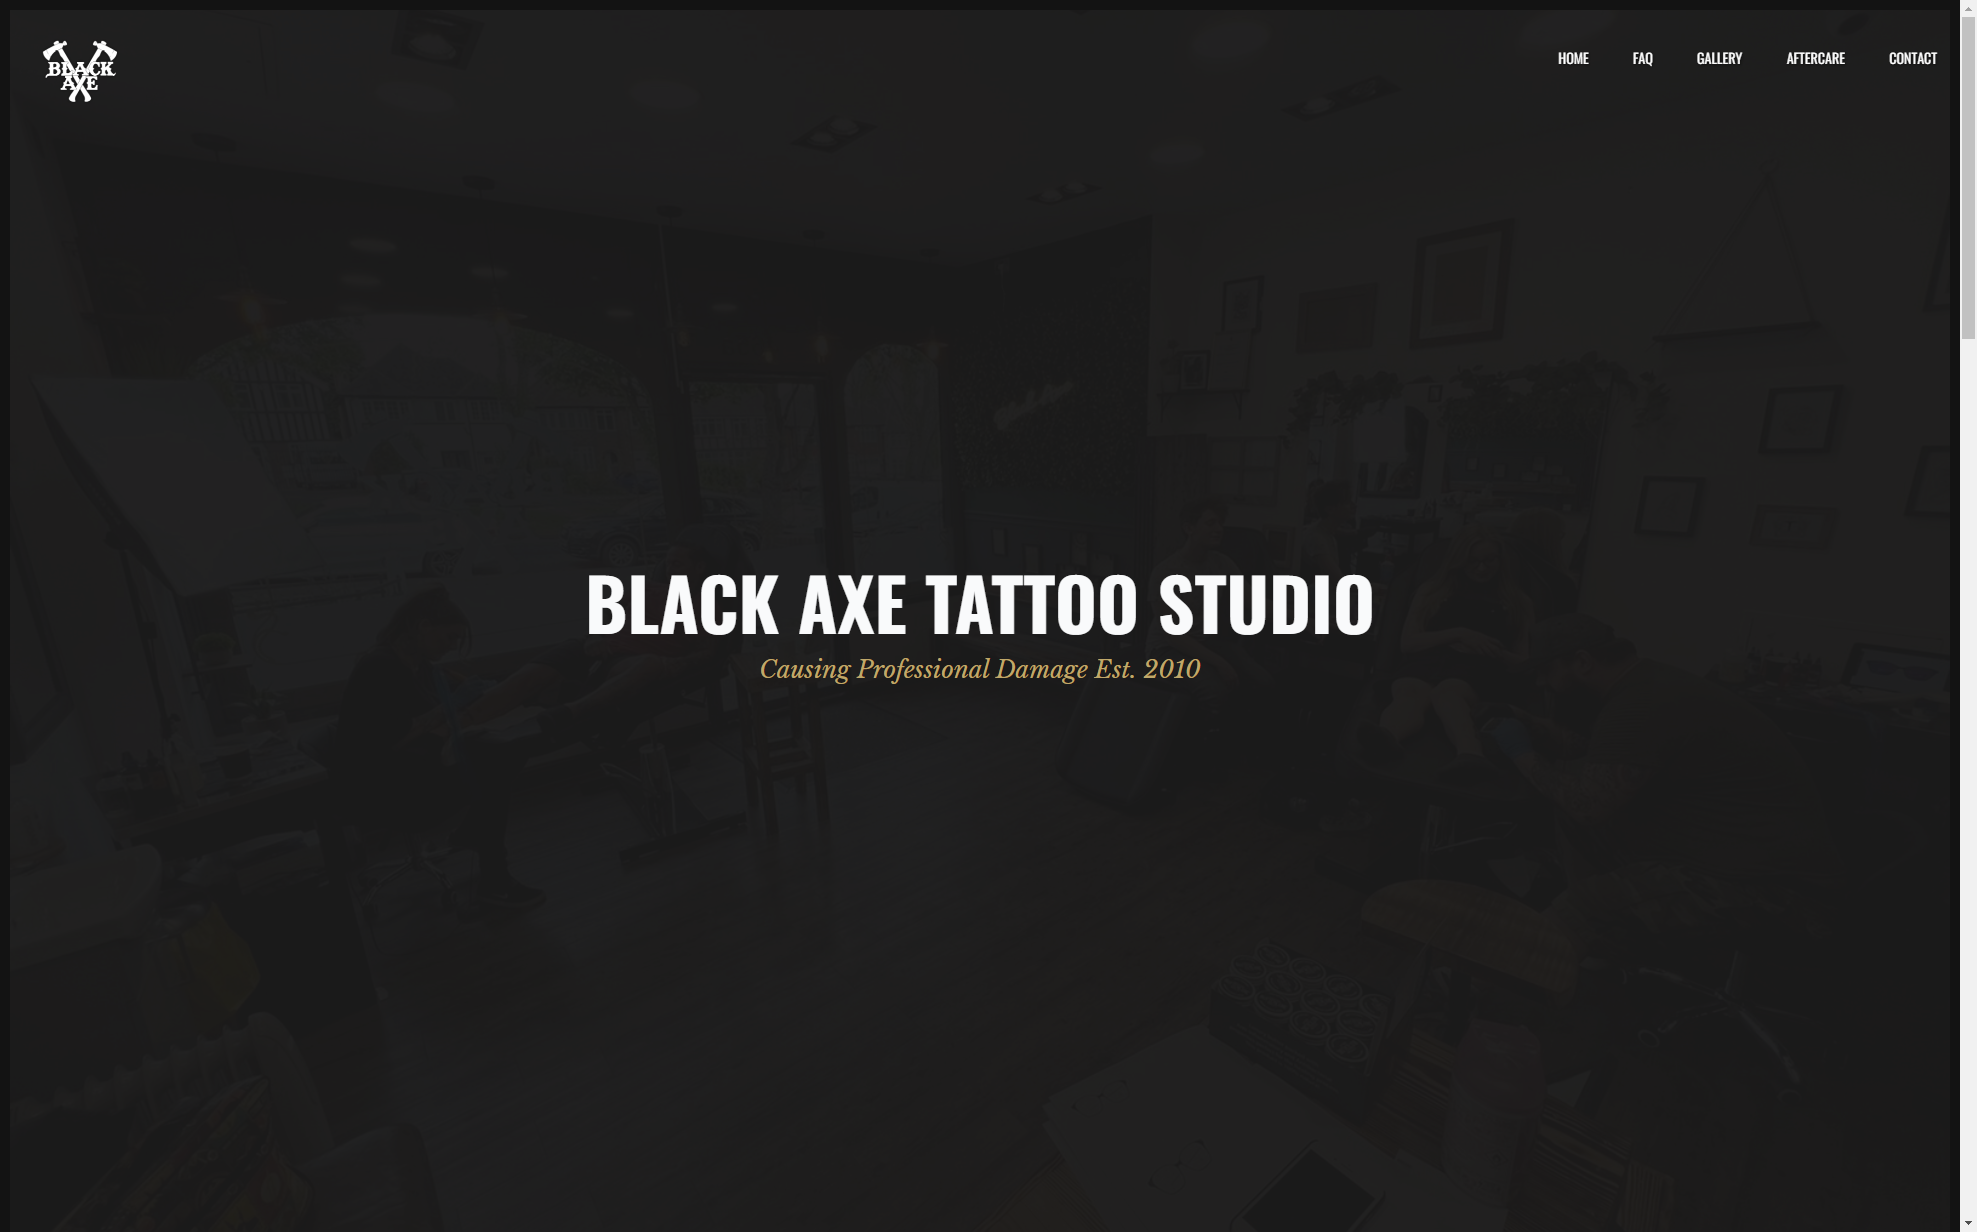
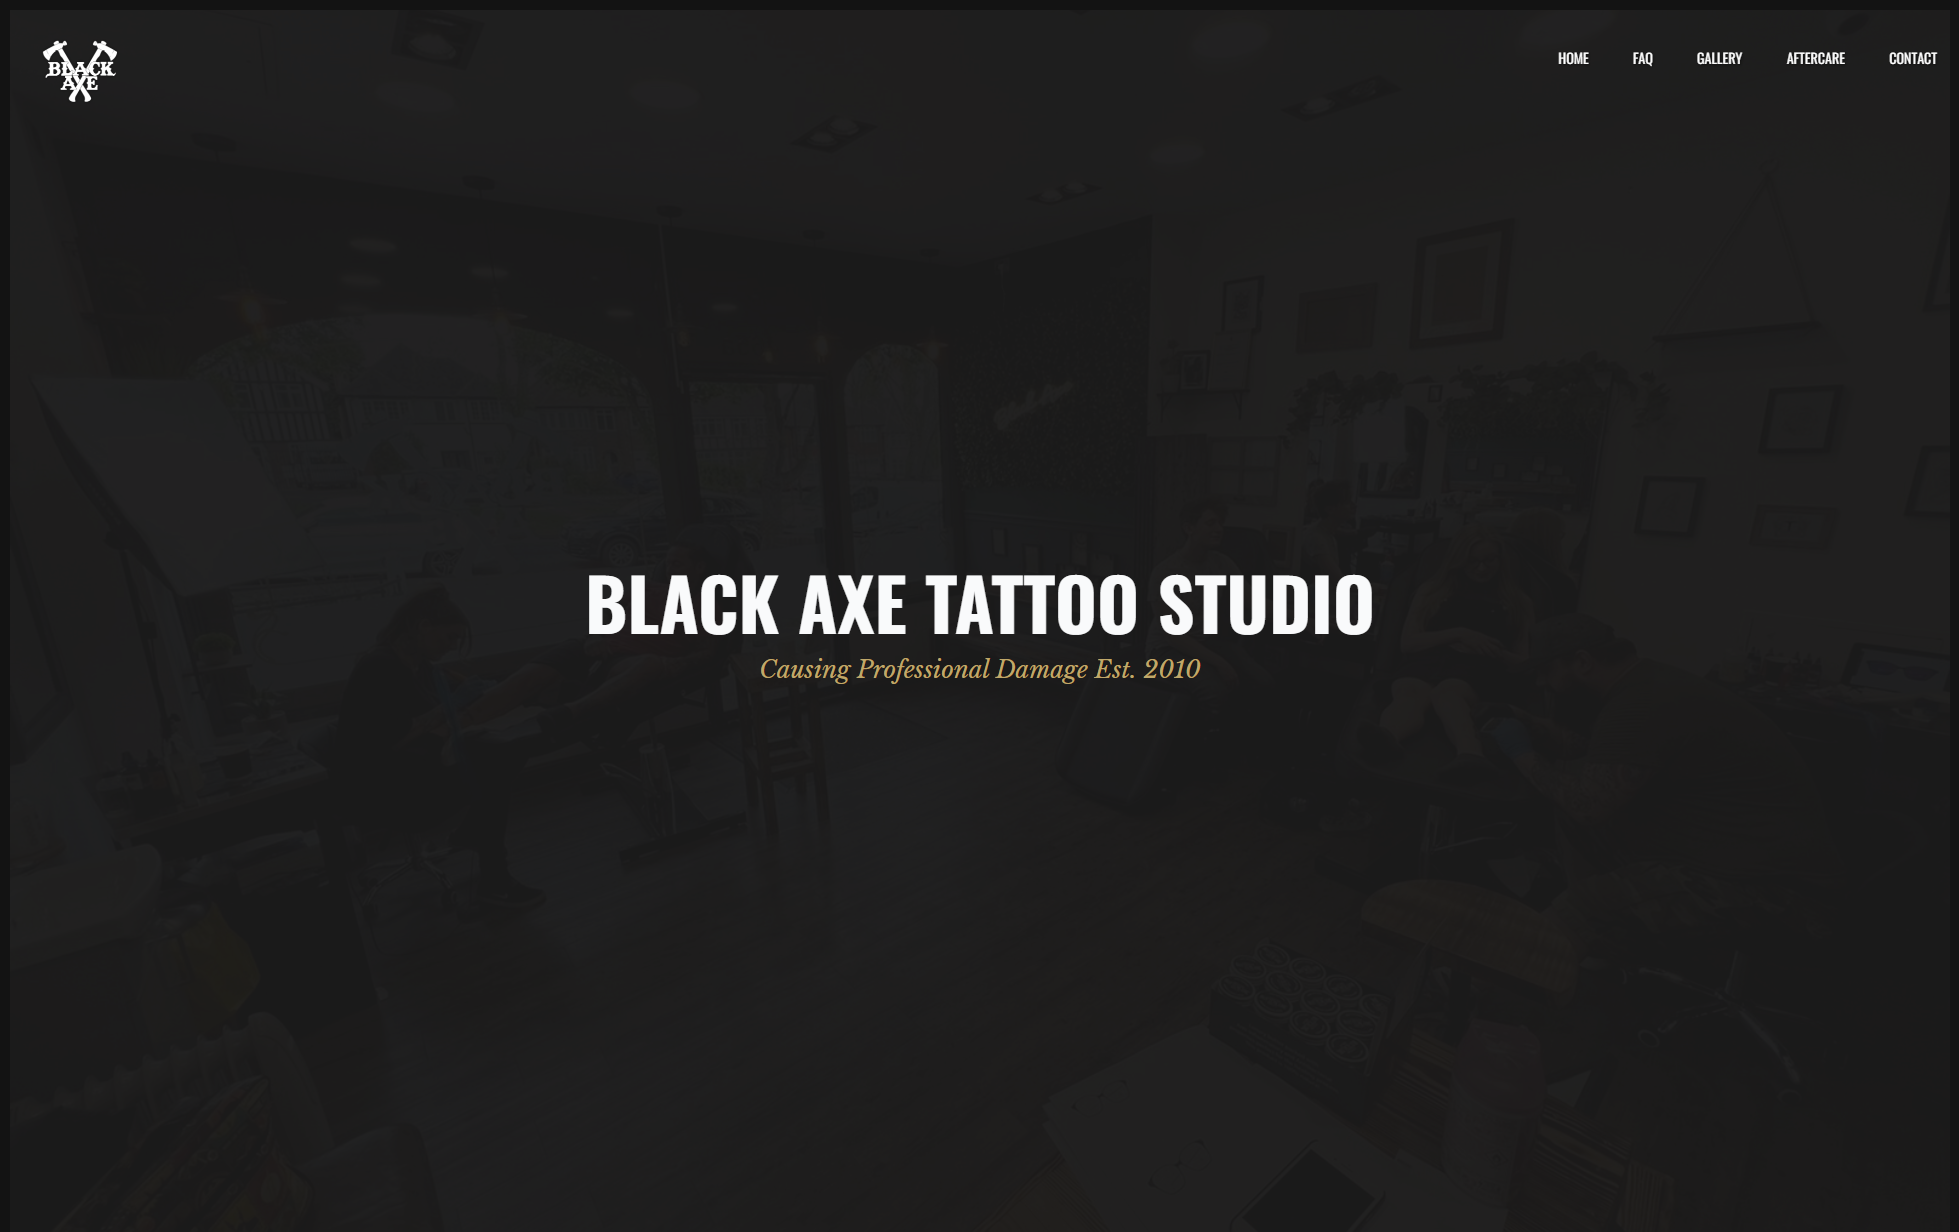
Portfolio

Changed region(s): [[0.7785, 0.0, 1.0, 1.0], [0.2802, 0.4627, 0.7162, 0.5552], [0.0311, 0.0308, 0.0623, 0.0925]]

diff --git a/src/styles/globals.css b/src/styles/globals.css
@@ -2,6 +2,11 @@
 @tailwind components;
 @tailwind utilities;
 
+html,body {
+  height: 100%;
+  width: 100%;
+}
+
 /* Sal.js */
 [data-sal]{transition-delay:0s;transition-delay:var(--sal-delay,0s);transition-duration:.2s;transition-duration:var(--sal-duration,.2s);transition-timing-function:ease;transition-timing-function:var(--sal-easing,ease)}[data-sal][data-sal-duration="200"]{transition-duration:.2s}[data-sal][data-sal-duration="250"]{transition-duration:.25s}[data-sal][data-sal-duration="300"]{transition-duration:.3s}[data-sal][data-sal-duration="350"]{transition-duration:.35s}[data-sal][data-sal-duration="400"]{transition-duration:.4s}[data-sal][data-sal-duration="450"]{transition-duration:.45s}[data-sal][data-sal-duration="500"]{transition-duration:.5s}[data-sal][data-sal-duration="550"]{transition-duration:.55s}[data-sal][data-sal-duration="600"]{transition-duration:.6s}[data-sal][data-sal-duration="650"]{transition-duration:.65s}[data-sal][data-sal-duration="700"]{transition-duration:.7s}[data-sal][data-sal-duration="750"]{transition-duration:.75s}[data-sal][data-sal-duration="800"]{transition-duration:.8s}[data-sal][data-sal-duration="850"]{transition-duration:.85s}[data-sal][data-sal-duration="900"]{transition-duration:.9s}[data-sal][data-sal-duration="950"]{transition-duration:.95s}[data-sal][data-sal-duration="1000"]{transition-duration:1s}[data-sal][data-sal-duration="1050"]{transition-duration:1.05s}[data-sal][data-sal-duration="1100"]{transition-duration:1.1s}[data-sal][data-sal-duration="1150"]{transition-duration:1.15s}[data-sal][data-sal-duration="1200"]{transition-duration:1.2s}[data-sal][data-sal-duration="1250"]{transition-duration:1.25s}[data-sal][data-sal-duration="1300"]{transition-duration:1.3s}[data-sal][data-sal-duration="1350"]{transition-duration:1.35s}[data-sal][data-sal-duration="1400"]{transition-duration:1.4s}[data-sal][data-sal-duration="1450"]{transition-duration:1.45s}[data-sal][data-sal-duration="1500"]{transition-duration:1.5s}[data-sal][data-sal-duration="1550"]{transition-duration:1.55s}[data-sal][data-sal-duration="1600"]{transition-duration:1.6s}[data-sal][data-sal-duration="1650"]{transition-duration:1.65s}[data-sal][data-sal-duration="1700"]{transition-duration:1.7s}[data-sal][data-sal-duration="1750"]{transition-duration:1.75s}[data-sal][data-sal-duration="1800"]{transition-duration:1.8s}[data-sal][data-sal-duration="1850"]{transition-duration:1.85s}[data-sal][data-sal-duration="1900"]{transition-duration:1.9s}[data-sal][data-sal-duration="1950"]{transition-duration:1.95s}[data-sal][data-sal-duration="2000"]{transition-duration:2s}[data-sal][data-sal-delay="50"]{transition-delay:.05s}[data-sal][data-sal-delay="100"]{transition-delay:.1s}[data-sal][data-sal-delay="150"]{transition-delay:.15s}[data-sal][data-sal-delay="200"]{transition-delay:.2s}[data-sal][data-sal-delay="250"]{transition-delay:.25s}[data-sal][data-sal-delay="300"]{transition-delay:.3s}[data-sal][data-sal-delay="350"]{transition-delay:.35s}[data-sal][data-sal-delay="400"]{transition-delay:.4s}[data-sal][data-sal-delay="450"]{transition-delay:.45s}[data-sal][data-sal-delay="500"]{transition-delay:.5s}[data-sal][data-sal-delay="550"]{transition-delay:.55s}[data-sal][data-sal-delay="600"]{transition-delay:.6s}[data-sal][data-sal-delay="650"]{transition-delay:.65s}[data-sal][data-sal-delay="700"]{transition-delay:.7s}[data-sal][data-sal-delay="750"]{transition-delay:.75s}[data-sal][data-sal-delay="800"]{transition-delay:.8s}[data-sal][data-sal-delay="850"]{transition-delay:.85s}[data-sal][data-sal-delay="900"]{transition-delay:.9s}[data-sal][data-sal-delay="950"]{transition-delay:.95s}[data-sal][data-sal-delay="1000"]{transition-delay:1s}[data-sal][data-sal-easing=linear]{transition-timing-function:linear}[data-sal][data-sal-easing=ease]{transition-timing-function:ease}[data-sal][data-sal-easing=ease-in]{transition-timing-function:ease-in}[data-sal][data-sal-easing=ease-out]{transition-timing-function:ease-out}[data-sal][data-sal-easing=ease-in-out]{transition-timing-function:ease-in-out}[data-sal][data-sal-easing=ease-in-cubic]{transition-timing-function:cubic-bezier(.55,.055,.675,.19)}[data-sal][data-sal-easing=ease-out-cubic]{transition-timing-function:cubic-bezier(.215,.61,.355,1)}[data-sal][data-sal-easing=ease-in-out-cubic]{transition-timing-function:cubic-bezier(.645,.045,.355,1)}[data-sal][data-sal-easing=ease-in-circ]{transition-timing-function:cubic-bezier(.6,.04,.98,.335)}[data-sal][data-sal-easing=ease-out-circ]{transition-timing-function:cubic-bezier(.075,.82,.165,1)}[data-sal][data-sal-easing=ease-in-out-circ]{transition-timing-function:cubic-bezier(.785,.135,.15,.86)}[data-sal][data-sal-easing=ease-in-expo]{transition-timing-function:cubic-bezier(.95,.05,.795,.035)}[data-sal][data-sal-easing=ease-out-expo]{transition-timing-function:cubic-bezier(.19,1,.22,1)}[data-sal][data-sal-easing=ease-in-out-expo]{transition-timing-function:cubic-bezier(1,0,0,1)}[data-sal][data-sal-easing=ease-in-quad]{transition-timing-function:cubic-bezier(.55,.085,.68,.53)}[data-sal][data-sal-easing=ease-out-quad]{transition-timing-function:cubic-bezier(.25,.46,.45,.94)}[data-sal][data-sal-easing=ease-in-out-quad]{transition-timing-function:cubic-bezier(.455,.03,.515,.955)}[data-sal][data-sal-easing=ease-in-quart]{transition-timing-function:cubic-bezier(.895,.03,.685,.22)}[data-sal][data-sal-easing=ease-out-quart]{transition-timing-function:cubic-bezier(.165,.84,.44,1)}[data-sal][data-sal-easing=ease-in-out-quart]{transition-timing-function:cubic-bezier(.77,0,.175,1)}[data-sal][data-sal-easing=ease-in-quint]{transition-timing-function:cubic-bezier(.755,.05,.855,.06)}[data-sal][data-sal-easing=ease-out-quint]{transition-timing-function:cubic-bezier(.23,1,.32,1)}[data-sal][data-sal-easing=ease-in-out-quint]{transition-timing-function:cubic-bezier(.86,0,.07,1)}[data-sal][data-sal-easing=ease-in-sine]{transition-timing-function:cubic-bezier(.47,0,.745,.715)}[data-sal][data-sal-easing=ease-out-sine]{transition-timing-function:cubic-bezier(.39,.575,.565,1)}[data-sal][data-sal-easing=ease-in-out-sine]{transition-timing-function:cubic-bezier(.445,.05,.55,.95)}[data-sal][data-sal-easing=ease-in-back]{transition-timing-function:cubic-bezier(.6,-.28,.735,.045)}[data-sal][data-sal-easing=ease-out-back]{transition-timing-function:cubic-bezier(.175,.885,.32,1.275)}[data-sal][data-sal-easing=ease-in-out-back]{transition-timing-function:cubic-bezier(.68,-.55,.265,1.55)}[data-sal|=fade]{opacity:0;transition-property:opacity}[data-sal|=fade].sal-animate,body.sal-disabled [data-sal|=fade]{opacity:1}[data-sal|=slide]{opacity:0;transition-property:opacity,transform}[data-sal=slide-up]{transform:translateY(20%)}[data-sal=slide-down]{transform:translateY(-20%)}[data-sal=slide-left]{transform:translateX(20%)}[data-sal=slide-right]{transform:translateX(-20%)}[data-sal|=slide].sal-animate,body.sal-disabled [data-sal|=slide]{opacity:1;transform:none}[data-sal|=zoom]{opacity:0;transition-property:opacity,transform}[data-sal=zoom-in]{transform:scale(.5)}[data-sal=zoom-out]{transform:scale(1.1)}[data-sal|=zoom].sal-animate,body.sal-disabled [data-sal|=zoom]{opacity:1;transform:none}[data-sal|=flip]{-webkit-backface-visibility:hidden;backface-visibility:hidden;transition-property:transform}[data-sal=flip-left]{transform:perspective(2000px) rotateY(-91deg)}[data-sal=flip-right]{transform:perspective(2000px) rotateY(91deg)}[data-sal=flip-up]{transform:perspective(2000px) rotateX(-91deg)}[data-sal=flip-down]{transform:perspective(2000px) rotateX(91deg)}[data-sal|=flip].sal-animate,body.sal-disabled [data-sal|=flip]{transform:none}
 body {
@@ -19,7 +24,7 @@ h2 {
 }
 
 h3 {
-  @apply font-outfit text-5xl max-w-2xl font-light text-white;
+  @apply font-outfit text-2xl md:text-5xl max-w-2xl font-light text-white;
 }
 
 h4 {
@@ -55,7 +60,12 @@ h4 {
 }
 .waveWrapper {
   @apply overflow-hidden relative left-0 right-0 top-0 m-auto;
-  height: 75vh;
+}
+@media (min-width: 750px) {
+  .waveWrapper {
+    max-height: 90vh;
+    height: 100vw;
+  }
 }
 .waveWrapperInner {
   @apply absolute h-full w-full overflow-hidden top-0;
@@ -102,3 +112,65 @@ h4 {
 .waveAnimation .wave {
   background-image: url("../../public/images/wave-top.png");
 }
+
+/* Burger Menu */
+
+label{
+  display:flex;
+   flex-direction:column;
+   width:30px;
+   cursor:pointer;
+ }
+ 
+ label span{
+   background: #fff;
+   border-radius:10px;
+   height:3px;
+   margin: 3px 0;
+   transition: .4s  cubic-bezier(0.68, -0.6, 0.32, 1.6);
+ 
+ }
+ 
+ 
+ span:nth-of-type(1){
+   width:50%;
+   
+ }
+ 
+ span:nth-of-type(2){
+   width:100%;
+ }
+ 
+ 
+ span:nth-of-type(3){
+   width:75%;
+  
+ }
+ 
+ 
+ input[type="checkbox"]{
+   display:none;
+ }
+ 
+ 
+ input[type="checkbox"]:checked ~ span:nth-of-type(1){
+   transform-origin:bottom;
+   transform:rotatez(45deg) translate(4px,0px)
+ }
+ 
+ 
+ input[type="checkbox"]:checked ~ span:nth-of-type(2){
+   
+   transform-origin:top;
+   transform:rotatez(-45deg)
+ }
+ 
+ 
+ input[type="checkbox"]:checked ~ span:nth-of-type(3){
+   
+   transform-origin:bottom;
+   width:50%;
+   transform: translate(13px,-5px) rotatez(45deg);
+ 
+ }
+ 

diff --git a/src/pages/index.tsx b/src/pages/index.tsx
@@ -4,6 +4,7 @@ import sal from 'sal.js'
 
 // Images
 import blackAxeTattoo from '../../public/images/blackaxetattoo.png'
+import louLouImages from '../../public/images/loulouimages.png'
 
 export default function Home() {
   sal();
@@ -12,7 +13,7 @@ export default function Home() {
   {/* START - Hero */}
   <section className="waveWrapper waveAnimation">
     <div className="w-full h-full flex items-center justify-center relative z-30">
-      <div className="container max-w-7xl mx-auto">
+      <div className="container px-6 mt-32 mb-40 md:mt-0 md:mb-0 max-w-7xl mx-auto">
       <h2 
       className='mb-8'
       data-sal="slide-up"
@@ -60,23 +61,62 @@ export default function Home() {
   </section>
   {/* END - Hero */}
   {/* START - Freelance Projects */}
-  <section className="container mx-auto max-w-7xl grid grid-cols-12 gap-10 py-40">
+  <section className="container mx-auto max-w-7xl py-20 md:py-40">
+    <div className="px-6 md:px-0 flex flex-col md:grid md:grid-cols-12 md:gap-10">
+      <div
+        className="order-last md:order-first col-span-12 md:col-span-5 flex items-start justify-center flex-col"
+        data-sal="slide-up"
+        data-sal-delay="200"
+        data-sal-duration="500"
+        data-sal-easing="ease-out-back"
+      >
+        <h4>Black Axe Tattoo Studio</h4>
+        <h3 className='font-outfit text-3xl mt-4 font-normal text-gray-700'>Creating an <span className='italic font-cormorant font-medium'>unique design</span> for a Birmingham based studio</h3>
+      </div>
+      <div className="order-first md:order-last col-span-12 md:col-span-7">
+        <figure
+          className='p-4 md:p-10 bg-slate-800 mb-6'
+          data-sal="slide-up"
+          data-sal-delay="200"
+          data-sal-duration="500"
+          data-sal-easing="ease-out-back"
+        >
+          <Image
+            className='shadow-md shadow-gray-800 hover:scale-105 duration-300 transform'
+            src={blackAxeTattoo}
+            alt="Picture of the author"
+          />
+        </figure>
+      </div>
+    </div>
+    <div className="col-span-12">
+      <h5 
+      className='font-outfit uppercase font-light tracking-wide'
+      data-sal="slide-up"
+      data-sal-delay="200"
+      data-sal-duration="500"
+      data-sal-easing="ease-out-back"
+      >
+        How I help
+      </h5>
+      <h3 
+      className='text-gray-800 text-5xl mt-4 max-w-5xl mb-20'
+      data-sal="slide-up"
+      data-sal-delay="700"
+      data-sal-duration="500"
+      data-sal-easing="ease-out-back"
+      >
+        Throughout my career, I've honed my skills to allow me to create <span className='italic font-cormorant font-medium'>interactive web experiences</span> that are both modern and focused on <span className='italic font-cormorant font-medium'>speed</span>
+      </h3>
+    </div>
     <div className="col-span-12 md:col-span-4">
-      <figure className='p-10 bg-slate-800 mb-6'>
-        <Image
-          className='shadow-md shadow-gray-800 hover:scale-105 duration-300 transform'
-          src={blackAxeTattoo}
-          alt="Picture of the author"
-        />
-      </figure>
-      <h4>Black Axe Tattoo Studio</h4>
-      <h3 className='font-outfit text-3xl mt-4 font-normal text-gray-700'>Creating an <span className='italic font-cormorant font-medium'>unique design</span> for a Birmingham based studio</h3>
+      
     </div>
     <div className="col-span-12 md:col-span-4">
       <figure className='p-10 bg-indigo-800 mb-6'>
         <Image
           className='shadow-md shadow-gray-800 hover:scale-105 duration-300 transform'
-          src={blackAxeTattoo}
+          src={louLouImages}
           alt="Picture of the author"
         />
       </figure>

diff --git a/src/components/header.tsx b/src/components/header.tsx
@@ -17,12 +17,20 @@ const links = [
 ]
 export default function Header() {
   return (
-    <header className='absolute z-40 top-0 left-0 w-full'>
+    <header className='absolute z-40 top-0 left-0 w-full px-6'>
       <div className='container max-w-7xl mx-auto grid grid-cols-12 py-6'>
         <div className="col-span-6 md:col-span-2">
-        <svg className='w-8' xmlns="http://www.w3.org/2000/svg" xmlSpace="preserve" fillRule="evenodd" strokeLinejoin="round" strokeMiterlimit="2" clipRule="evenodd" viewBox="0 0 35 50">
-          <path className='fill-white' fill="#0d2f3f" fillRule="nonzero" d="M28.761 19.633c-1.5 1.82-3.607 2.743-6.26 2.743H7.564v23.042H3.75V18.61h18.113c1.585 0 2.973-.618 3.91-1.74.79-.948 1.226-2.219 1.226-3.578 0-2.786-1.921-5.668-5.136-5.668H3.75V3.75h18.752c5.746 0 8.363 4.925 8.363 9.5 0 2.47-.747 4.737-2.104 6.383m-17.448 6.494h3.25v19.29h-3.25v-19.29ZM22.502 0H0v11.376h21.863c1.01 0 1.386 1.176 1.386 1.917 0 .476-.13.905-.356 1.176-.14.168-.4.392-1.03.392H0v34.2h18.314V26.127h4.188c3.772 0 6.937-1.421 9.153-4.11 1.91-2.314 2.96-5.428 2.96-8.767C34.615 6.666 30.454 0 22.502 0"/>
-        </svg>
+          <svg className='w-8' xmlns="http://www.w3.org/2000/svg" xmlSpace="preserve" fillRule="evenodd" strokeLinejoin="round" strokeMiterlimit="2" clipRule="evenodd" viewBox="0 0 35 50">
+            <path className='fill-white' fill="#0d2f3f" fillRule="nonzero" d="M28.761 19.633c-1.5 1.82-3.607 2.743-6.26 2.743H7.564v23.042H3.75V18.61h18.113c1.585 0 2.973-.618 3.91-1.74.79-.948 1.226-2.219 1.226-3.578 0-2.786-1.921-5.668-5.136-5.668H3.75V3.75h18.752c5.746 0 8.363 4.925 8.363 9.5 0 2.47-.747 4.737-2.104 6.383m-17.448 6.494h3.25v19.29h-3.25v-19.29ZM22.502 0H0v11.376h21.863c1.01 0 1.386 1.176 1.386 1.917 0 .476-.13.905-.356 1.176-.14.168-.4.392-1.03.392H0v34.2h18.314V26.127h4.188c3.772 0 6.937-1.421 9.153-4.11 1.91-2.314 2.96-5.428 2.96-8.767C34.615 6.666 30.454 0 22.502 0"/>
+          </svg>
+        </div>
+        <div className="col-span-6 flex items-center justify-end md:hidden">
+          <label htmlFor="check">
+            <input type="checkbox" id="check"/> 
+            <span></span>
+            <span></span>
+            <span></span>
+          </label>
         </div>
         <div className="hidden md:col-span-10 md:flex items-center justify-end">
           <nav>
